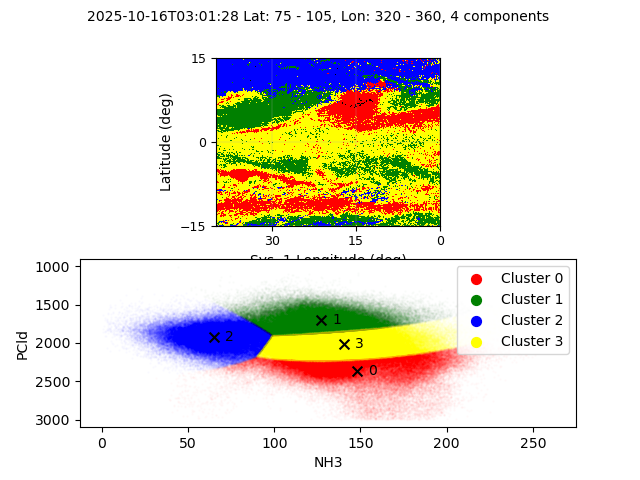
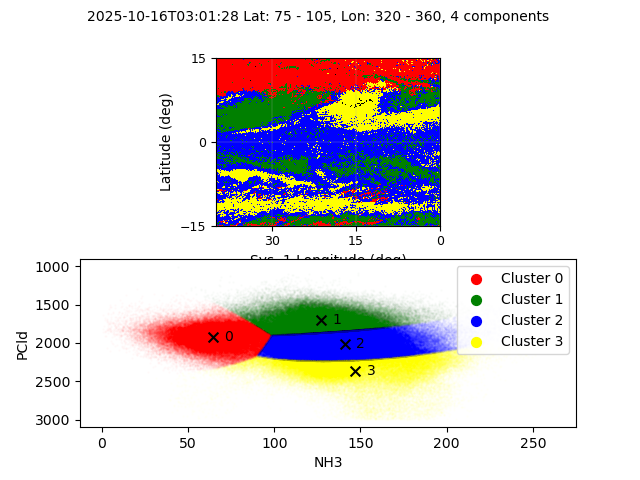
fix mapping bug in normal case (longitude does not wrap)

Changed region(s): [[0.3125, 0.125, 0.6875, 0.4688], [0.1875, 0.625, 0.75, 0.875]]

diff --git a/scripts/preprocessing/preprocessing.py b/scripts/preprocessing/preprocessing.py
@@ -186,9 +186,15 @@ def subset_map(map, LatLims, LonLims,  CM):
     if(CM == 0):
 
         return np.copy(map[LatLims[0]:LatLims[1],LonLims[0]:LonLims[1]])
+    if CM >= LonRng and CM <= lon_max - LonRng:
+        patch = np.copy(
+            map[
+                int(LatLims[0]):int(LatLims[1]),
+                int(LonLims[0]):int(LonLims[1])
+            ]
+        )
    
-  
-    if CM<LonRng:
+    elif CM<LonRng:
         print("case 1")
         #crosses longitude boundary to the left of CM
         #print("******************  CM2deg<LonRng")
@@ -198,7 +204,7 @@ def subset_map(map, LatLims, LonLims,  CM):
         
         patch=np.concatenate((np.copy(map[LatLims[0]:LatLims[1],LonLims[0]:lon_max]),
                               np.copy(map[LatLims[0]:LatLims[1],0:LonLims[1]-lon_max])),axis=1)
-    if CM>lon_max-LonRng:
+    elif CM>lon_max-LonRng:
         print("case 2")
         #crossses longitude boundary to the right of CM
         #print("******************  CM2deg>LonRng")

diff --git a/scripts/processes.py b/scripts/processes.py
@@ -202,8 +202,8 @@ def create_map_comparison(date, keywords, param_ranges,
 
 
 # Run processes for longitude 0 - 30, latitude 90 - 105
-lon_range = [320, 360]
-lat_range = [75, 105]
+lon_range = [330, 360]
+lat_range = [90, 105]
 
 
 output_comparison_and_plot("20251016", ["NH3", "PCld"], [[0, 300], [1000,  3000]], lat_range, lon_range, 4)
